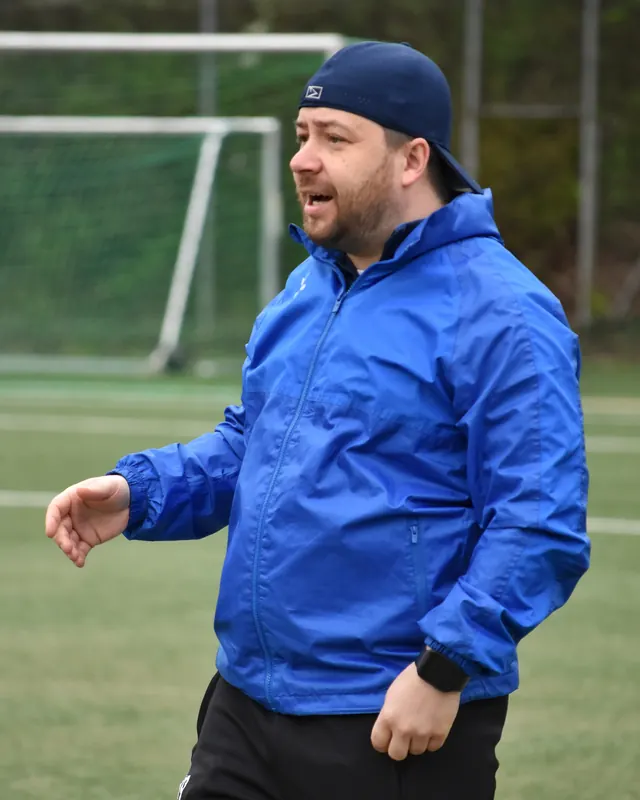
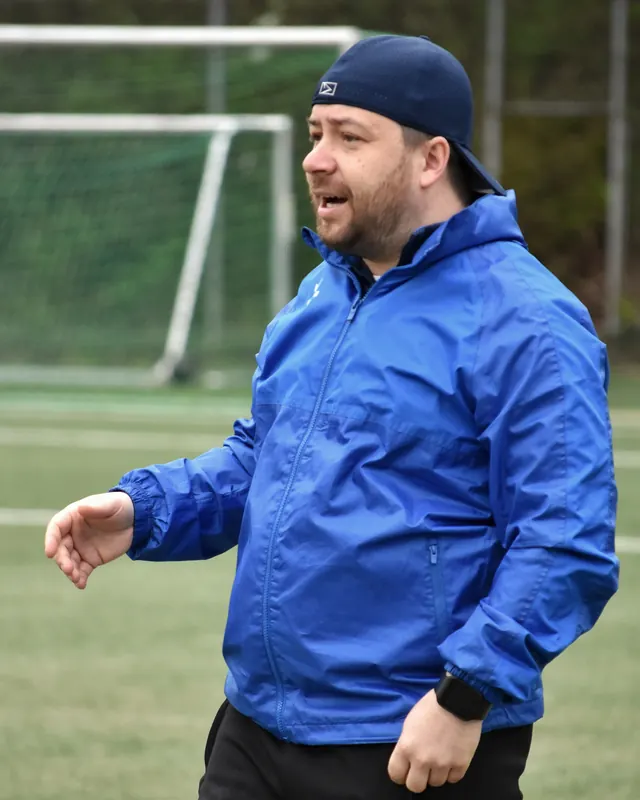
v54: Trainerbild getauscht, Kanal-Clipping behoben
Der Nutzer hat das Bild neu vom Kamera-Original bearbeitet. Entscheidend
war ein Clipping, das im Helligkeits-Histogramm unsichtbar bleibt und erst
kanalweise auffaellt:

  Blaukanal auf 255   5,32 %  ->  0,01 %   (Jacke hat wieder Stoffzeichnung)
  Rotkanal auf 0      5,28 %  ->  0,07 %   (Schatten kippen nicht mehr blau)
  Weisspunkt            222   ->    242
  Schwarzpunkt           16   ->     13

Merke fuer kuenftige Bilder: Ein kraeftig blaues Trikot liegt oft schon ab
Werk nah am Anschlag, hier 2,46 Prozent direkt aus der Kamera. Bei solchen
Motiven gehoert der Saettigungsregler nach unten, nicht nach oben.

Getestet in 1280 und 390 Pixel Breite: alle fuenf Bilder geladen, kein
horizontales Scrollen, Blaettern und Fokus geprueft.

Claude-Session: https://claude.ai/code/session_01FhbZ88ip632AYyz2JxrsyE

diff --git a/service-worker.js b/service-worker.js
@@ -1,7 +1,7 @@
 // Offline-Cache für ColorGrade (Portfolio + App).
 // Bei jeder Veröffentlichung die Versionsnummer erhöhen, damit Geräte
 // automatisch die neue Fassung bekommen.
-const CACHE = 'colorgrade-v53';
+const CACHE = 'colorgrade-v54';
 const ASSETS = [
   './',
   './index.html',

diff --git a/scripts/make_photos.py b/scripts/make_photos.py
@@ -17,7 +17,7 @@ from PIL import Image, ImageOps
 # nur die grosse Fassung und benutzen sie auch als Kachel.
 BILDER = {
     '29314e94-image.jpg': ('torwart-jubel', False),
-    '388a9cf6-image.jpg': ('trainer', False),
+    '13079f7a-image.jpg': ('trainer', False),
     'b4b04be7-image.jpg': ('spieltag-schuss', False),
     'f168ccee-image.jpg': ('spieltag-zweikampf', False),
     '912d98e8-image.jpg': ('spieltag-konter', True),

diff --git a/README.md b/README.md
@@ -255,6 +255,7 @@ Konzept jederzeit zur Grundlage springen kann.
 
 | Version | Was |
 |---------|-----|
+| **v54** | **Trainerbild getauscht** gegen die vom Nutzer neu bearbeitete Fassung. Entscheidend war ein Kanal-Clipping, das man im Histogramm der Helligkeit nicht sieht: Der Blaukanal stand in bis zu 5,32 Prozent der Pixel auf 255, dadurch hatte die Regenjacke in den hellen Partien keine Stoffzeichnung mehr, und der Rotkanal lag in 5,28 Prozent auf null, wodurch die Schatten ins Blaue kippten. Beide Werte liegen jetzt bei 0,01 und 0,07 Prozent. Dazu Weißpunkt von 222 auf 242 und Schwarzpunkt von 16 auf 13. **Merke für künftige Bilder:** Ein kräftig blaues Trikot oder sattes Grün ist oft schon ab Werk nah am Anschlag (hier 2,46 Prozent direkt aus der Kamera). Bei solchen Motiven gehört der Sättigungsregler nach unten, nicht nach oben, sonst ist die Zeichnung unwiederbringlich weg. |
 | **v53** | Das Querformat („Lauf in den freien Raum") steht jetzt als **Aufmacher ganz oben**, direkt unter dem Einleitungssatz und bewusst ohne Überschrift (Nutzer-Wunsch: es zieht den Blick am besten). Darunter folgen zwei ruhige Zweierreihen im Hochformat. Das Aufmacherbild lädt nicht mehr verzögert, sondern mit `fetchpriority="high"`, weil es über der Falz liegt. Die Reihenfolge in der Lightbox folgt der neuen Anordnung. |
 | **v52** | **Fotografie-Galerie gebaut**, der Bereich ist damit inhaltlich gefüllt. Fünf Bilder in zwei Abschnitten: „Der Moment" (Schuss, Zweikampf, Konter) und „Die Menschen" (Torwart, Trainer). Je Bild eine kurze Unterschrift mit Brennweite und Belichtungszeit aus den EXIF-Daten. Neue **Lightbox** (`.lb`) mit Blättern per Pfeiltasten, Schließen per Escape oder Klick auf den Hintergrund, Fokus bleibt im Overlay und kehrt beim Schließen auf die angeklickte Kachel zurück. Bilder als WebP in zwei Größen, 1600 px für die Lightbox und 800 px für die Kachel, erzeugt von `scripts/make_photos.py`; das Raster lädt so nur 280 KB. Zwei Dinge beim Testen gefunden und behoben: **(1)** Die Kachel des Querformats wurde von 800 auf 860 px hochskaliert, breite Bilder nehmen jetzt die 1600er Fassung. **(2)** Der Lightbox-Hintergrund war mit 94 Prozent halbtransparent, dadurch schienen Kopfzeile und Bildunterschriften durch und hellten die Tiefen des Fotos auf; jetzt deckend. Dazu sitzt die Unterschrift nicht mehr am unteren Bildschirmrand, sondern direkt unter dem Foto (`max-height` statt `flex: 1`). |
 | **v51** | Texte auf der Startseite gekürzt (Nutzer-Wunsch): Die Kopfzeile ist ein Satz aus Fakten statt einer Absichtserklärung („Sportfotografie für das Portal FuPa, erste eigene Videoarbeiten, eine selbst gebaute App"). Über mich von vier Karten auf drei, je höchstens zwei kurze Sätze; die Karte „Mein Ziel" ist aufgelöst, ihr Kern steht jetzt als **ein** Satz beim Kontakt. Hintergrund: Das Warum steht im Anschreiben, auf der Seite klang es doppelt und zu sehr nach Wollen. Das Quellenverzeichnis aus v43 bleibt entfernt, das ist entschieden. |
